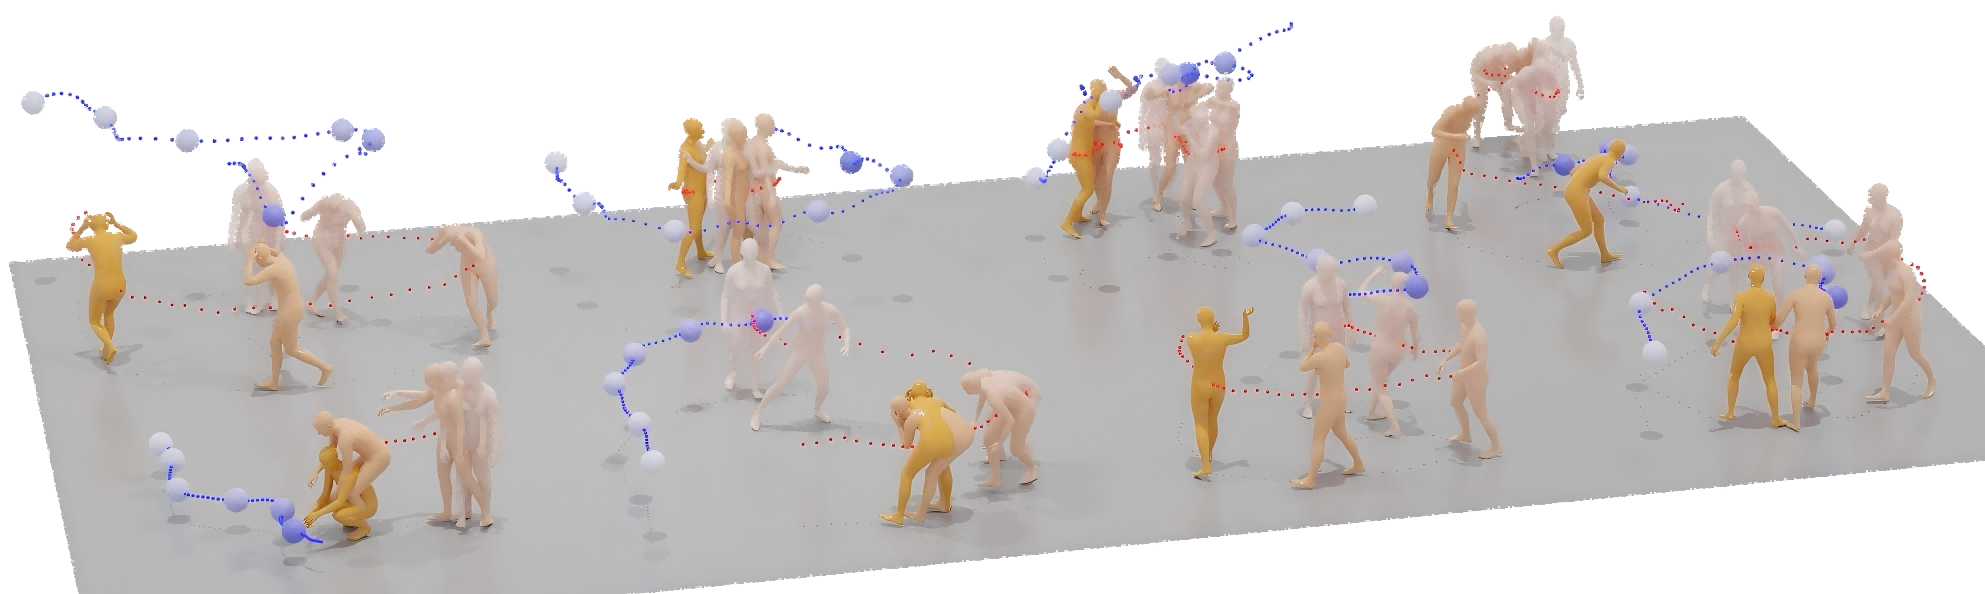
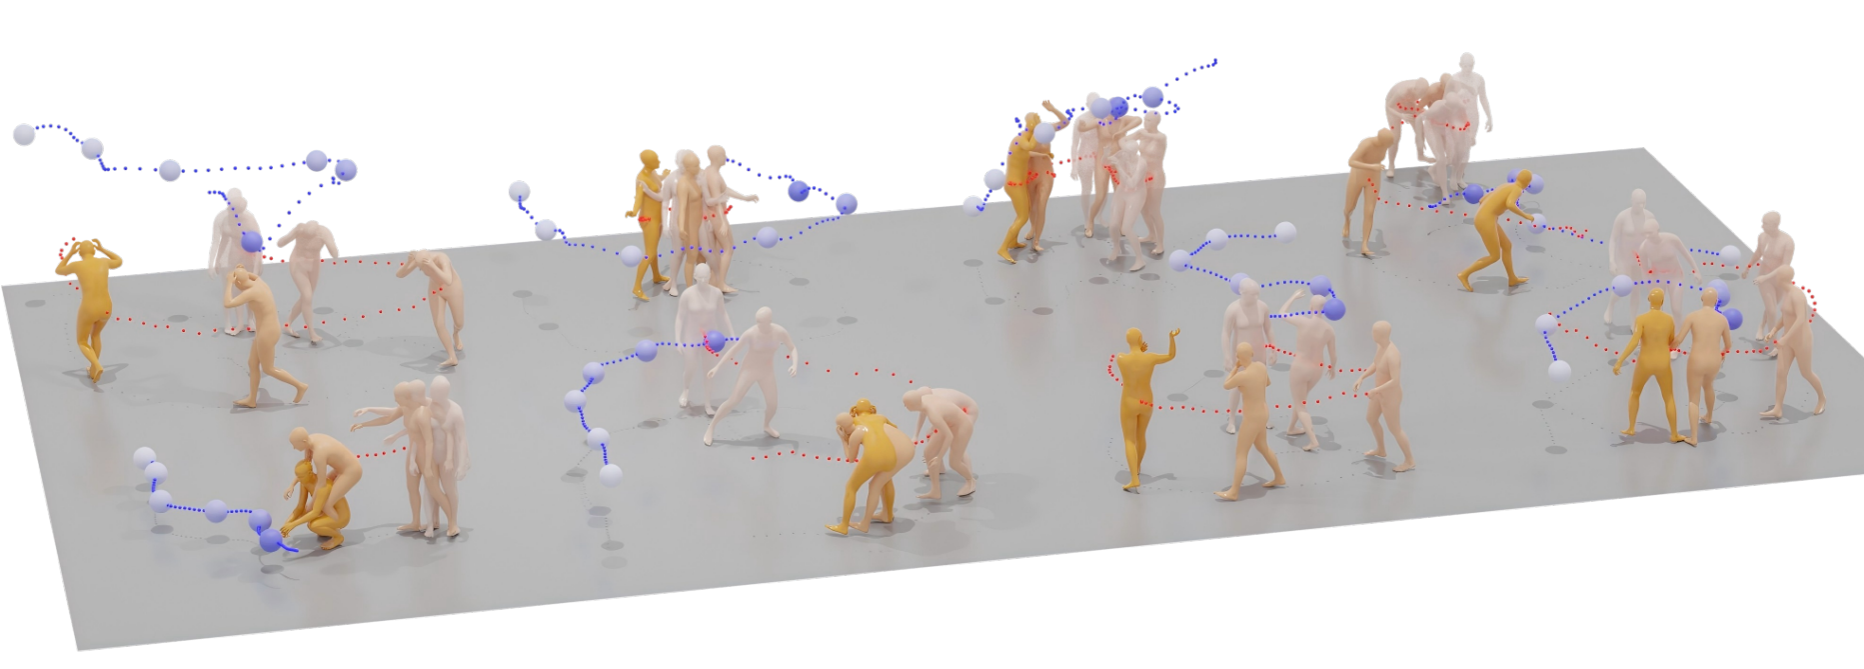
add MOMO

diff --git a/index.html b/index.html
@@ -14,7 +14,7 @@ title: Deli Cai
 			<li><a href="https://github.com/CDLCHOI">GitHub</a></li>
 		</ul>
 		<p>
-			I'm a Ph.D. candidate in Information and Communication Engineering at the South China University of Technology (SCUT), advised by Professor Changxing Ding. Since January 2026, I have been a visiting student at The University of Hong Kong (HKU), advised by Professor Taku Komura and working with Zhiyang (Frank) Dou.
+			I'm a Ph.D. candidate in Information and Communication Engineering at the South China University of Technology (SCUT), advised by Professor Changxing Ding. Since January 2026, I have been a visiting student at The University of Hong Kong (HKU), advised by Professor Taku Komura.
 		</p>
 		<p>
 			I received an M.S. in Electronics and Communications Engineering from SCUT in 2021, advised by Professor Yongjian Hu, and a B.S. in Electronic and Information Engineering from SCUT in 2018. My research interests lie in human motion generation, robotics, and multimodal learning.
